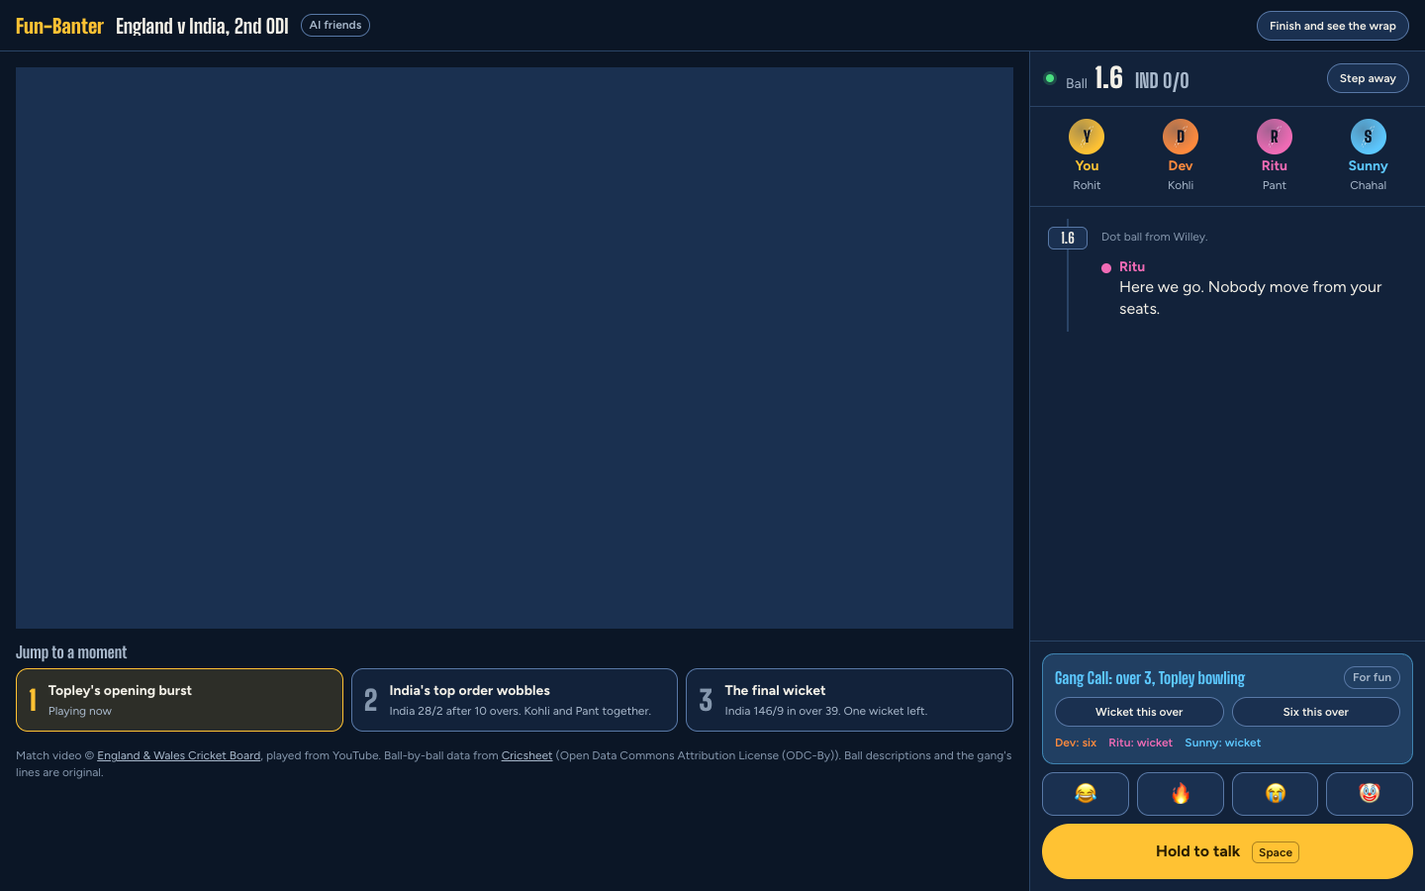
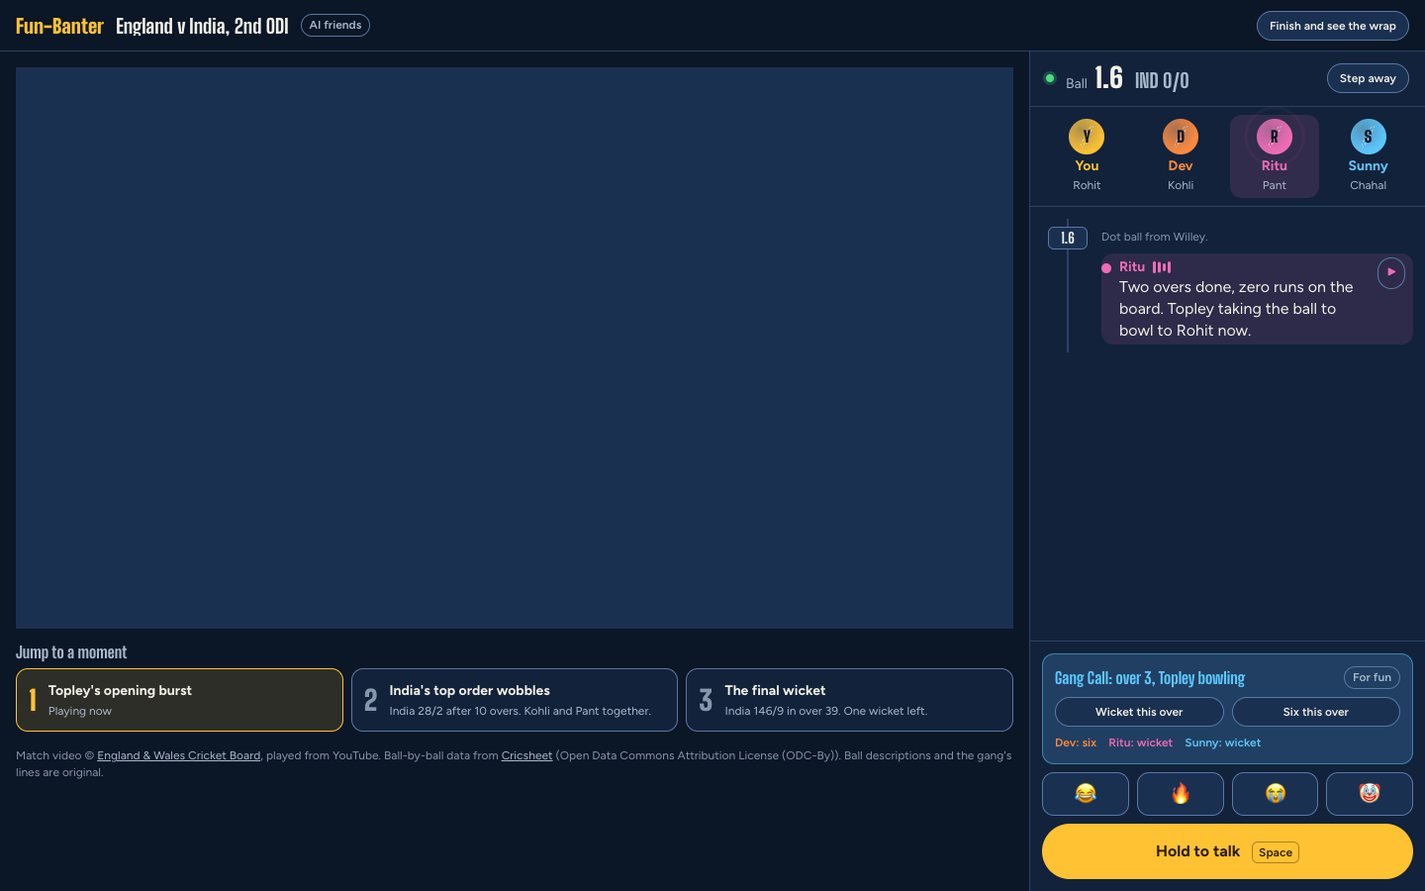
Step 8: E2E on a mocked YouTube player (journey, live AI, embed-error fallback, rewind spoiler rule, mic denied, resume, hold-to-talk); fix ducker losing volume on a mid-ramp clip; wrap counts only this room's moments; real-embed tour + after screenshots

Changed region(s): [[0.75, 0.28, 1.0, 0.4044], [0.8438, 0.1244, 0.9375, 0.2489]]

diff --git a/tests/e2e/journey.spec.ts b/tests/e2e/journey.spec.ts
@@ -1,118 +1,179 @@
-// §17.4 end-to-end journeys. Speed-up via the hidden ?speed= debug control.
+// §17.4 end-to-end journeys (v1.2) with a MOCKED YouTube IFrame API (no network video in CI).
+// The fake player runs at E2E_RATE× real time on the real timeline, so chapters and ball sync are exercised for real.
 import { test, expect, type Page } from '@playwright/test';
 
-const SHOTS = process.env.E2E_SHOTS; // optional folder for screenshots
+const RATE = Number(process.env.E2E_RATE ?? 6);
 const isApi = (u: URL) => u.pathname.startsWith('/api/');
 
-async function shot(page: Page, name: string) { if (SHOTS) await page.screenshot({ path: `${SHOTS}/${name}.png` }); }
+/** A tiny stand-in for the IFrame API: real-time clock × rate, seek, volume log, and a way to raise onError. */
+const FAKE_YT = `
+(() => {
+  window.YT = { Player: function (el, o) {
+    const rate = window.__ytRate || 1; let base = (o.playerVars && o.playerVars.start) || 0, t0 = performance.now(), state = -1, vol = 100;
+    const now = () => state === 1 ? base + (performance.now() - t0) / 1000 * rate : base;
+    const box = document.createElement('div'); box.className = 'fake-yt'; box.textContent = 'Fake YouTube player';
+    (typeof el === 'string' ? document.getElementById(el) : el).replaceWith(box);
+    const set = (s) => { state = s; o.events && o.events.onStateChange && o.events.onStateChange({ data: s }); };
+    this.playVideo = () => { if (state !== 1) { base = now(); t0 = performance.now(); set(1); } };
+    this.pauseVideo = () => { base = now(); set(2); };
+    this.seekTo = (t) => { base = t; t0 = performance.now(); (window.__seeks = window.__seeks || []).push(t); };
+    this.getCurrentTime = () => now(); this.getPlayerState = () => state;
+    this.setVolume = (v) => { vol = v; (window.__vols = window.__vols || []).push(v); }; this.getVolume = () => vol;
+    this.unMute = () => {}; this.isMuted = () => false; this.destroy = () => {};
+    window.__ytFake = { error: (c) => o.events && o.events.onError && o.events.onError({ data: c }), seek: (t) => this.seekTo(t), now };
+    setTimeout(() => o.events && o.events.onReady && o.events.onReady(), 30);
+  } };
+  setTimeout(() => window.onYouTubeIframeAPIReady && window.onYouTubeIframeAPIReady(), 0);
+})();`;
 
-async function joinAndStart(page: Page, speed: number) {
-  await page.goto(`/?speed=${speed}`);
-  await expect(page.getByText('are simulated friends', { exact: false })).toBeVisible(); // FR-002 disclosure before joining
-  await shot(page, '01-landing');
-  await page.getByRole('button', { name: "Join the gang's room" }).click();
-  await expect(page.getByRole('button', { name: 'Start the match' })).toBeDisabled(); // FR-003: team required
-  await page.getByRole('button', { name: 'Pick for me' }).click();
-  await shot(page, '02-setup');
-  await page.getByRole('button', { name: 'Start the match' }).click();
-  await expect(page.locator('.broadcast')).toBeVisible();
+async function mockYouTube(page: Page, rate = RATE) {
+  await page.addInitScript((r) => { (window as unknown as { __ytRate: number }).__ytRate = r; }, rate);
+  await page.route('https://www.youtube.com/iframe_api', (r) => r.fulfill({ contentType: 'text/javascript', body: FAKE_YT }));
+}
+async function start(page: Page, hero?: string) {
+  await page.goto(`/?speed=${RATE}`); // ?speed only affects the scoreboard fallback's clock
+  await expect(page.getByText('are AI friends', { exact: false })).toBeVisible(); // FR-002: disclosure before joining
+  if (hero) await page.getByRole('radio', { name: hero }).click();
+  await page.getByRole('button', { name: 'Watch with the gang' }).click();
+  await expect(page.locator('.fake-yt')).toBeVisible();
 }
 
-async function fullJourney(page: Page, speed: number, opts: { expectLive: boolean }) {
-  await joinAndStart(page, speed);
-  // moment card → send a line (FR-014/016)
-  const send = page.locator('.moment li button', { hasText: 'Send' }).first();
-  await send.waitFor({ timeout: 120_000 });
-  await shot(page, '03-moment-card');
-  const line = (await page.locator('.moment li span').first().textContent())!;
+async function journey(page: Page, opts: { live: boolean }) {
+  await start(page);
+  // no dead air: a gang line arrives within seconds of the chapter opening
+  await expect(page.locator('.v').first()).toBeVisible({ timeout: 15_000 });
+  // Gang Call for Topley's over → call a wicket
+  await page.getByRole('button', { name: 'Wicket this over' }).click();
+  // 2.4 Rohit lbw b Topley: the wicket slab, then your comeback line card (Rohit is your hero)
+  await expect(page.locator('.slab', { hasText: 'Rohit' })).toBeVisible({ timeout: 60_000 });
+  const send = page.getByRole('button', { name: 'Send it' });
+  await expect(send).toBeVisible({ timeout: 10_000 });
+  const line = (await page.locator('.line-text').textContent())!.replace(/[“”]/g, '');
   await send.click();
-  await expect(page.locator('.fi.self .tx', { hasText: line.slice(0, 20) })).toBeVisible();
-  // text + reaction (FR-011)
-  await page.getByLabel('Message the gang').fill('Ritu, your hero is still my hero');
-  await page.getByRole('button', { name: 'Send', exact: true }).last().click();
-  await page.getByRole('button', { name: 'React 😂' }).click();
-  if (opts.expectLive) await expect(page.locator('.src', { hasText: 'live AI' }).first()).toBeVisible({ timeout: 60_000 });
-  // step away when the gang nudges (FR-018)
-  await page.locator('.step.nudge').waitFor({ timeout: 150_000 });
-  await shot(page, '04-nudge');
-  await page.locator('.step.nudge').click();
+  await expect(page.locator('.v.self .v-text', { hasText: line.slice(0, 20) })).toBeVisible();
+  await page.getByRole('button', { name: 'React: Laughing' }).click();
+  await expect(page.locator('.v-react.self .v-emoji', { hasText: '😂' })).toBeVisible();
+  if (opts.live) await expect(page.locator('.chip-live').first()).toBeVisible({ timeout: 60_000 });
+  // the gang nudges you to step away → the panel goes away, the video time-skips (never covered)
+  await expect(page.locator('.step.nudge')).toBeVisible({ timeout: 30_000 });
+  await page.getByRole('button', { name: 'Step away' }).click();
   await expect(page.getByText('You stepped away')).toBeVisible();
-  await shot(page, '05-away');
-  // call-back
+  await expect(page.locator('.fake-yt')).toBeVisible();
+  // call-back from Dev at 11.1 (Kohli at the crease)
   const back = page.getByRole('button', { name: 'Back to the match' });
-  await back.waitFor({ timeout: 90_000 });
-  await shot(page, '06-callback');
+  await expect(back).toBeVisible({ timeout: 30_000 });
+  await expect(page.getByText('Dev is calling you back')).toBeVisible();
   await back.click();
-  // catch-up (FR-019) mentions every wicket in the window
-  const cu = page.getByRole('dialog', { name: 'While you were away' });
-  await expect(cu).toBeVisible();
-  await expect(cu.locator('p').first()).not.toHaveText(/filling you in/, { timeout: 10_000 });
-  if (opts.expectLive) await cu.locator('.src', { hasText: 'live AI' }).waitFor({ timeout: 12_000 }).catch(() => {}); // live summary may replace the fallback
-  await shot(page, '07-catchup');
-  await page.getByRole('button', { name: 'Rejoin the match' }).click();
-  // wrap (FR-020) and memory (FR-021)
-  await expect(page.getByRole('heading', { name: 'The audio reel' })).toBeVisible({ timeout: 150_000 });
+  // catch-up names every wicket you missed (AC-CATCH-1): Dhawan and Pant
+  const cu = page.locator('.catchup');
+  await expect(cu.locator('.cu-text')).toBeVisible({ timeout: 10_000 });
+  await expect(cu.locator('.cu-text')).toContainText('Dhawan');
+  await expect(cu.locator('.cu-text')).toContainText('Pant');
+  await page.getByRole('button', { name: 'Back to the banter' }).click();
+  // 11.2 Kohli c Buttler b Willey, live on screen after the call-back
+  await expect(page.locator('.slab', { hasText: 'Kohli' })).toBeVisible({ timeout: 30_000 });
+  // jump to the final wicket chapter → skipped balls become a catch-up line, not a burst
+  await page.getByRole('button', { name: /The final wicket/ }).click();
+  await expect(page.locator('.skip-line').last()).toContainText('Wickets:', { timeout: 15_000 });
+  // wrap + memory (FR-020/021)
+  await expect(page.getByRole('heading', { name: 'The audio reel' })).toBeVisible({ timeout: 90_000 });
   await expect(page.getByText('Saved to your memories.')).toBeVisible();
-  await shot(page, '08-wrap');
+  // the last lines may still be playing on the wrap screen: once the gang is quiet, the volume must be back
+  await expect.poll(() => page.evaluate(() => (window as unknown as { __vols?: number[] }).__vols?.at(-1)), { timeout: 20_000 }).not.toBe(20);
+  const vols = await page.evaluate(() => (window as unknown as { __vols?: number[] }).__vols ?? []);
   await page.getByRole('button', { name: 'See your memory shelf' }).click();
   await expect(page.locator('.mem')).toHaveCount(1);
   await page.reload();
   await page.getByRole('button', { name: /Your memories \(1\)/ }).click(); // AC-MEM-2: survives reload
   await page.locator('.mem').first().click();
   await expect(page.locator('.timeline li').first()).toBeVisible();
-  await shot(page, '09-shelf');
+  return { vols };
 }
 
-test('full journey with live AI', async ({ page }) => {
-  test.skip(!!process.env.E2E_NO_LIVE, 'live AI disabled');
-  await fullJourney(page, Number(process.env.E2E_SPEED ?? 5), { expectLive: true });
-});
-
-test('AI offline: journey still completes with fallbacks', async ({ page }) => {
+test('reviewer journey on a mocked YouTube player, AI offline (fallback lines)', async ({ page }) => {
+  await mockYouTube(page);
   await page.route(isApi, (r) => r.abort());
-  await fullJourney(page, 8, { expectLive: false });
+  const { vols } = await journey(page, { live: false });
+  // ducking went through player.setVolume: down to 20 while a clip played, then back to 100
+  expect(vols.length).toBeGreaterThan(0);
+  expect(Math.min(...vols)).toBe(20);
+  expect(vols.at(-1)).toBe(100);
 });
 
-test('mic denied: text and reactions still work', async ({ browser }) => {
+test('reviewer journey with live AI (mocked YouTube)', async ({ page }) => {
+  test.skip(!!process.env.E2E_NO_LIVE, 'live AI disabled');
+  await mockYouTube(page);
+  await journey(page, { live: true });
+});
+
+test('embed error → automatic scoreboard fallback at the same ball, nothing re-delivered', async ({ page }) => {
+  await mockYouTube(page);
+  await page.route(isApi, (r) => r.abort());
+  await start(page);
+  await expect(page.locator('.v').first()).toBeVisible({ timeout: 15_000 });
+  const before = await page.locator('.v').count();
+  const ball = await page.locator('.nb-label b').textContent();
+  await page.evaluate(() => (window as unknown as { __ytFake: { error: (c: number) => void } }).__ytFake.error(150));
+  await expect(page.locator('.board')).toBeVisible();
+  await expect(page.getByText("couldn't play here")).toBeVisible();
+  await expect(page.locator('.nb-label b')).toHaveText(ball!);
+  expect(await page.locator('.v').count()).toBeGreaterThanOrEqual(before);
+  // and the match carries on in the fallback: Rohit's wicket still lands
+  await expect(page.locator('.slab', { hasText: 'Rohit' })).toBeVisible({ timeout: 60_000 });
+});
+
+test('seek backwards never re-delivers lines (spoiler rule)', async ({ page }) => {
+  await mockYouTube(page);
+  await page.route(isApi, (r) => r.abort());
+  await start(page);
+  await expect(page.locator('.slab', { hasText: 'Rohit' })).toBeVisible({ timeout: 60_000 });
+  const n = await page.locator('.v').count();
+  await page.evaluate(() => (window as unknown as { __ytFake: { seek: (t: number) => void } }).__ytFake.seek(13_840));
+  await expect(page.locator('.nb-label b')).toHaveText('1.6', { timeout: 5_000 });
+  await page.waitForTimeout(6_000); // replays balls 2.1–2.4 on screen
+  expect(await page.locator('.v').count()).toBe(n);
+  expect(await page.locator('.slab').count()).toBe(1);
+});
+
+test('mic denied: reactions and the gang’s lines still work (no typing during play)', async ({ browser }) => {
   const ctx = await browser.newContext({ permissions: [] });
   const page = await ctx.newPage();
-  await page.addInitScript(() => {
-    navigator.mediaDevices.getUserMedia = () => Promise.reject(new DOMException('denied', 'NotAllowedError'));
-  });
+  await page.addInitScript(() => { navigator.mediaDevices.getUserMedia = () => Promise.reject(new DOMException('denied', 'NotAllowedError')); });
+  await mockYouTube(page);
   await page.route(isApi, (r) => r.abort());
-  await joinAndStart(page, 4);
-  const talk = page.getByRole('button', { name: /Hold to talk/ });
-  await talk.dispatchEvent('pointerdown');
-  await expect(page.getByText('Mic off. Type or react instead.')).toBeVisible();
-  await page.getByLabel('Message the gang').fill('typing instead');
-  await page.keyboard.press('Enter');
-  await expect(page.locator('.fi.self .tx', { hasText: 'typing instead' })).toBeVisible();
+  await start(page);
+  await page.getByRole('button', { name: /Hold to talk/ }).dispatchEvent('pointerdown');
+  await expect(page.getByText('Mic is off.', { exact: false })).toBeVisible();
+  await expect(page.locator('input[type="text"], textarea')).toHaveCount(0);
+  await page.getByRole('button', { name: 'React: Fire' }).click();
+  await expect(page.locator('.v-react.self')).toBeVisible();
   await ctx.close();
 });
 
 test('reload mid-match resumes the room', async ({ page }) => {
+  await mockYouTube(page);
   await page.route(isApi, (r) => r.abort());
-  await joinAndStart(page, 6);
-  await page.getByLabel('Message the gang').fill('remember me');
-  await page.keyboard.press('Enter');
-  await page.waitForTimeout(9_000); // let a few balls pass so progress is saved
+  await start(page);
+  await page.getByRole('button', { name: 'React: Crying' }).click();
+  await page.waitForTimeout(9_500); // progress is saved every ~8 s
   await page.reload();
-  const resume = page.getByRole('button', { name: /Resume your match at/ });
+  const resume = page.getByRole('button', { name: /Resume at/ });
   await expect(resume).toBeVisible();
   await resume.click();
-  await expect(page.locator('.fi.self .tx', { hasText: 'remember me' })).toBeVisible();
+  await expect(page.locator('.v-react.self .v-emoji', { hasText: '😭' })).toBeVisible();
   await expect(page.getByText('Picked up where you left off.')).toBeVisible();
 });
 
-test('hold-to-talk records a clip with the fake mic', async ({ page }) => {
-  await page.route((u) => u.pathname === '/api/transcribe', (r) => r.fulfill({ json: { text: 'Dev your swing king is in trouble' } }));
-  await page.route((u) => u.pathname === '/api/reply', (r) => r.abort());
-  await joinAndStart(page, 2);
+test('hold-to-talk records a clip with the fake mic (live waveform while recording)', async ({ page }) => {
+  await mockYouTube(page);
+  await page.route((u) => u.pathname === '/api/transcribe', (r) => r.fulfill({ json: { text: 'Dev your king is in trouble' } }));
+  await page.route((u) => u.pathname === '/api/reply' || u.pathname === '/api/react' || u.pathname === '/api/speak', (r) => r.abort());
+  await start(page);
   const talk = page.getByRole('button', { name: /Hold to talk/ });
   await talk.dispatchEvent('pointerdown');
-  await expect(page.getByText(/Recording/)).toBeVisible();
+  await expect(page.locator('.talk.rec .talk-wave')).toBeVisible();
   await page.waitForTimeout(1200);
   await talk.dispatchEvent('pointerup');
-  await expect(page.locator('.fi.self .clip')).toBeVisible({ timeout: 3_000 }); // AC-VOICE-1
-  await expect(page.locator('.fi.self .tx', { hasText: 'swing king' })).toBeVisible();
+  await expect(page.locator('.v.self .v-play')).toBeVisible({ timeout: 3_000 }); // AC-VOICE-1
+  await expect(page.locator('.v.self .v-text', { hasText: 'king is in trouble' })).toBeVisible();
 });

diff --git a/src/services/engine.ts b/src/services/engine.ts
@@ -33,7 +33,7 @@ export interface SavedRoom {
   id: string; matchId: string; title: string; date: string; endedAt: number; result: string;
   loyalty: Member['loyalty']; feed: FeedItem[]; calls: GangCall[]; wrap?: WrapState;
 }
-export interface LiveSnapshot { roomId: string; videoTime: number; maxRevealed: number; loyalty: Member['loyalty']; feed: FeedItem[]; calls: GangCall[]; label: string }
+export interface LiveSnapshot { roomId: string; videoTime: number; maxRevealed: number; roomStart?: number; loyalty: Member['loyalty']; feed: FeedItem[]; calls: GangCall[]; label: string }
 
 /** How far ahead (video seconds) we ask Gemini for lines, and what counts as urgent. */
 export const LOOKAHEAD_S = 240;
@@ -75,6 +75,8 @@ export class RoomEngine {
   private lastPersistAt = 0;
   private lastTimePatch = -1;
   private awaitCallback = false;
+  /** first ball of this room: the wrap and its stats only count what happened from here on */
+  roomStart?: number;
 
   constructor(public match: Match, public members: Member[], public timeline: Timeline, public chapters: Chapter[],
     public mode: 'live' | 'rewatch' = 'live', public roomId = uid()) {
@@ -104,6 +106,7 @@ export class RoomEngine {
   start(t: number, opts: { silentUpTo?: number } = {}) {
     audio.unlock();
     const seenUpTo = opts.silentUpTo ?? this.timeline.ballAt(t) - 1;
+    this.roomStart ??= Math.max(0, this.timeline.ballAt(t));
     this.tracker.resetTo(seenUpTo);
     patch({ plan: this.plan, status: 'live', roomId: this.roomId, position: seenUpTo, playhead: Math.max(room().playhead, seenUpTo), videoTime: t });
     this.source?.seekTo(t);
@@ -323,7 +326,7 @@ export class RoomEngine {
     const marker: FeedItem[] = away ? [] : [{ id: `skip-${from}-${to}`, memberId: SELF_ID, kind: 'skip', anchorSeq: to - 1, sentAt: Date.now(),
       text: `Skipped ${this.match.balls[Math.min(from + 1, to - 1)].label} to ${this.match.balls[to - 1].label}. ${this.scoreText(to - 1)}${wk.length ? `. Wickets: ${wk.join(', ')}` : ''}.`,
       source: 'template' }];
-    patch({ feed: [...room().feed, ...fresh, ...marker], playhead: Math.max(room().playhead, to - 1) });
+    patch({ feed: [...room().feed, ...marker, ...fresh], playhead: Math.max(room().playhead, to - 1) });
     this.updateCalls(to - 1);
     this.onRevealed(to);
   }
@@ -542,10 +545,11 @@ export class RoomEngine {
     this.source?.pause();
     patch({ status: 'ended', card: undefined, callOffer: undefined, catchup: undefined, away: undefined });
     const st = room();
-    const stats = computeStats(this.members, this.plan.moments.filter((m) => m.ballSeq <= st.playhead), st.feed, st.calls, SELF_ID);
+    const inRoom = (seq: number) => seq >= (this.roomStart ?? 0) && seq <= st.playhead;
+    const stats = computeStats(this.members, this.plan.moments.filter((m) => inRoom(m.ballSeq)), st.feed, st.calls, SELF_ID);
     const highlights = st.feed.filter((f) => f.text && f.kind !== 'reaction' && f.kind !== 'skip').slice(-50)
       .map((f) => ({ itemId: f.id, who: f.memberId === SELF_ID ? 'You' : this.member(f.memberId).name, text: f.text!.slice(0, 200), seq: f.anchorSeq }));
-    const moments = this.plan.moments.filter((m) => m.ruleId !== 'R7' && m.ballSeq <= st.playhead).slice(0, 30).map((m) => ({ seq: m.ballSeq, text: m.headline }));
+    const moments = this.plan.moments.filter((m) => m.ruleId !== 'R7' && inRoom(m.ballSeq)).slice(0, 30).map((m) => ({ seq: m.ballSeq, text: m.headline }));
     patch({ screen: 'wrap', wrap: undefined });
     const ai = await api.wrap({
       match: this.match.title, result: st.playhead >= this.match.balls.length - 1 ? this.match.result : `Stopped at ${this.scoreText(st.playhead)}`,
@@ -555,7 +559,7 @@ export class RoomEngine {
     const clipIds = st.feed.filter((f) => f.kind === 'clip' && f.audioKey && this.audioSrc.has(f.audioKey));
     const fallbackReel = [...clipIds].sort((a, b) => (b.text?.length ?? 0) - (a.text?.length ?? 0)).slice(0, 3).sort((a, b) => a.anchorSeq - b.anchorSeq).map((f) => f.id);
     const roastFallback = st.feed.find((f) => f.intent === 'tease' && f.text);
-    const loudest = this.plan.moments.find((m) => m.severity === 3 && m.ruleId !== 'R7' && m.ballSeq <= st.playhead);
+    const loudest = this.plan.moments.find((m) => m.severity === 3 && m.ruleId !== 'R7' && inRoom(m.ballSeq));
     const roasted = stats.mostRoasted ? (stats.mostRoasted.memberId === SELF_ID ? 'You' : this.member(stats.mostRoasted.memberId).name) : undefined;
     const valid = (ids: string[]) => ids.filter((id) => clipIds.some((c) => c.id === id));
     const wrap: WrapState = ai ? {
@@ -586,7 +590,7 @@ export class RoomEngine {
   private async persistLive() {
     const st = room();
     if (st.status !== 'live' || this.mode !== 'live' || !this.source) return;
-    const snap: LiveSnapshot = { roomId: this.roomId, videoTime: this.source.getCurrentTime(), maxRevealed: this.tracker.maxRevealed, loyalty: this.member(SELF_ID).loyalty, feed: st.feed, calls: st.calls, label: this.scoreText(Math.max(0, st.playhead)) };
+    const snap: LiveSnapshot = { roomId: this.roomId, videoTime: this.source.getCurrentTime(), maxRevealed: this.tracker.maxRevealed, roomStart: this.roomStart, loyalty: this.member(SELF_ID).loyalty, feed: st.feed, calls: st.calls, label: this.scoreText(Math.max(0, st.playhead)) };
     await storage.putLive(snap);
   }
 

diff --git a/src/services/source/ducker.ts b/src/services/source/ducker.ts
@@ -12,13 +12,15 @@ export class Ducker {
   private base?: number;       // user's volume before ducking
   private lastSet?: number;    // last value we set (to detect the user changing volume mid-duck)
   private timers: unknown[] = [];
+  /** target of an in-progress restore ramp: a clip that starts mid-ramp must not mistake a half-restored level for the user's */
+  private restoring?: number;
   ducked = false;
 
   constructor(private target: () => VolumeTarget | undefined, private timer: Timer = realTimer, private level = DUCK_TO, private rampMs = DUCK_RAMP_MS) {}
 
   duck() {
     const t = this.target(); if (!t) return;
-    if (!this.ducked) { this.base = t.getVolume(); this.ducked = true; }
+    if (!this.ducked) { this.base = this.restoring ?? t.getVolume(); this.ducked = true; this.restoring = undefined; }
     else if (this.lastSet !== undefined && Math.abs(t.getVolume() - this.lastSet) > 1) this.base = t.getVolume(); // user moved it
     const to = Math.min(this.level, this.base ?? 100);
     this.ramp(t, t.getVolume(), to);
@@ -31,14 +33,15 @@ export class Ducker {
     // if the user changed the volume while we were ducked, respect their choice
     const userMoved = this.lastSet !== undefined && Math.abs(now - this.lastSet) > 1;
     const to = userMoved ? now : this.base ?? 100;
-    this.ramp(t, now, to);
+    this.restoring = to;
+    this.ramp(t, now, to, () => { this.restoring = undefined; });
   }
 
-  private ramp(t: VolumeTarget, from: number, to: number) {
+  private ramp(t: VolumeTarget, from: number, to: number, done?: () => void) {
     this.timers.forEach((h) => this.timer.clear(h)); this.timers = [];
     for (let i = 1; i <= STEPS; i++) {
       const v = Math.round(from + ((to - from) * i) / STEPS);
-      this.timers.push(this.timer.set(() => { this.lastSet = v; t.setVolume(v); }, (this.rampMs * i) / STEPS));
+      this.timers.push(this.timer.set(() => { this.lastSet = v; t.setVolume(v); if (i === STEPS) done?.(); }, (this.rampMs * i) / STEPS));
     }
   }
 }

diff --git a/tests/tour/tour-v2.spec.ts b/tests/tour/tour-v2.spec.ts
@@ -27,7 +27,7 @@ test('reviewer journey (real embed, live AI)', async ({ page }) => {
   await page.getByRole('button', { name: 'Back to the match' }).click();
   await page.locator('.catchup .cu-text').waitFor({ timeout: 10_000 }); await mark('catch-up shown'); await page.waitForTimeout(2500); await shot(page, '08-catchup');
   await page.getByRole('button', { name: 'Back to the banter' }).click();
-  await page.locator('.ball-w').nth(1).waitFor({ timeout: 90_000 }); await mark('WICKET slab (Kohli)'); await page.waitForTimeout(4000); await shot(page, '09-kohli');
+  await page.locator('.slab', { hasText: 'Kohli' }).waitFor({ timeout: 90_000 }); await mark('WICKET slab (Kohli)'); await page.waitForTimeout(4000); await shot(page, '09-kohli');
   await page.locator('.up-next').waitFor({ timeout: 90_000 }); await mark('up next'); await shot(page, '10-up-next');
   await page.getByRole('button', { name: 'Jump there now' }).click(); await mark('jumped to final chapter');
   await page.waitForTimeout(3000); await shot(page, '11-final-chapter');

diff --git a/tests/unit/source.test.ts b/tests/unit/source.test.ts
@@ -31,6 +31,15 @@ describe('Ducker (player.setVolume ramp)', () => {
     d.restore(); vi.advanceTimersByTime(250);
     expect(p.v).toBe(55);
   });
+  it('a clip that starts while the volume is still coming back up does not lose volume (regression)', () => {
+    const p = player(100); const d = new Ducker(() => p);
+    d.duck(); vi.advanceTimersByTime(250);
+    d.restore(); vi.advanceTimersByTime(30); // half-way back up (e.g. 90)
+    expect(p.v).toBeGreaterThan(20); expect(p.v).toBeLessThan(100);
+    d.duck(); vi.advanceTimersByTime(250);
+    d.restore(); vi.advanceTimersByTime(250);
+    expect(p.v).toBe(100);
+  });
   it('back-to-back clips stay ducked and restore once to the original volume', () => {
     const p = player(70); const d = new Ducker(() => p);
     d.duck(); vi.advanceTimersByTime(250); d.duck(); vi.advanceTimersByTime(250);

diff --git a/src/panel/actions.ts b/src/panel/actions.ts
@@ -51,6 +51,7 @@ export async function resumeRoom() {
   audio.unlock();
   const e = newEngine(members, 'live', live.roomId);
   e.restore(live.feed.map((f) => ({ ...f, unheard: false })), live.calls, await loadSources(live.feed));
+  e.roomStart = live.roomStart;
   pending = { t: Math.max(0, live.videoTime - 3), silentUpTo: live.maxRevealed };
   patch({ selfLoyalty: live.loyalty, members, screen: 'live', mode: 'live', resumable: undefined, playhead: live.maxRevealed, toast: { text: 'Picked up where you left off.', at: Date.now() } });
 }
